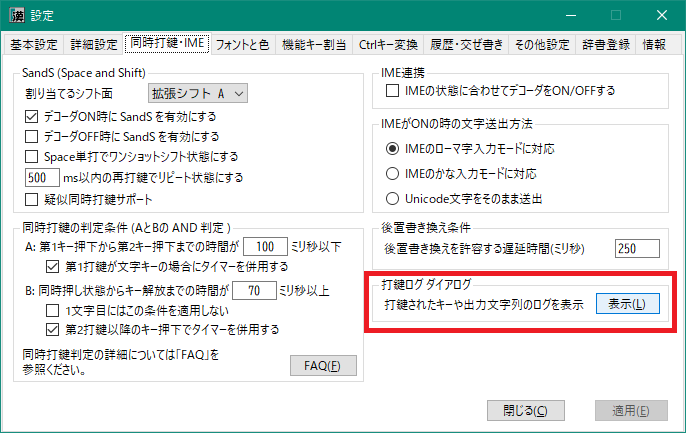
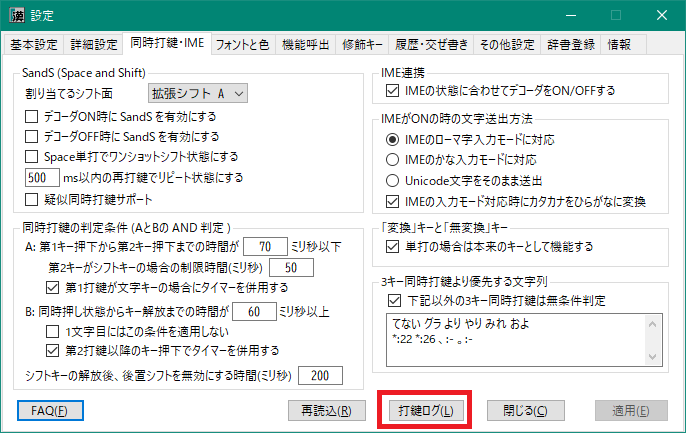
FAQ 文言修正

diff --git a/FAQ/FAQ-基本.md b/FAQ/FAQ-基本.md
@@ -22,6 +22,7 @@
     - [IME のON/OFFに合わせてかな配列入力モードもON/OFFしたい](#IME-のONOFFに合わせてかな配列入力モードもONOFFしたい)
     - [IME にひらがなが送られません](#IME-にひらがなが送られません)
 - [同時打鍵](#同時打鍵)
+    - [必ず同時打鍵として扱うケース](#必ず同時打鍵として扱うケース)
     - [同時打鍵で意図しない文字が入力されてしまうのを防ぎたい](#同時打鍵で意図しない文字が入力されてしまうのを防ぎたい)
     - [タイマーを使って一定時間後に同時打鍵判定をする](#タイマーを使って一定時間後に同時打鍵判定をする)
     - [自分がどのようなタイミングで打鍵しているかを知りたい](#自分がどのようなタイミングで打鍵しているかを知りたい)
@@ -251,10 +252,10 @@ W を押している時間帯と J を押している時間帯が一瞬でも重
 
 ![Wj Combo](image/wj-combo.png)
 
-漢直WS では、この「同時」の時間帯が無い場合はどんなに近接した打鍵であっても「同時打鍵」とはみなしません。
-また、時間的には同時でもそれを「同時打鍵」として扱うかどうかは、さらに別の判定条件があります。
+漢直WS では、この「同時」の時間帯が無い場合は、どんなに近接した打鍵であっても「同時打鍵」とはみなしません。
+また、「同時」の時間帯があってもそれを「同時打鍵」として扱うかどうかに関しては、さらに別の判定条件があります。
 
-必ず同時打鍵として扱うケースとして以下の場合があります。
+### 必ず同時打鍵として扱うケース
 下図のように第1打鍵の解放が第2打鍵の解放よりも後の場合は無条件で
 （たとえ W から J までの打鍵間隔がどれだけ長くても）同時打鍵として扱われます。
 
@@ -264,7 +265,7 @@ W を押している時間帯と J を押している時間帯が一瞬でも重
 
 「単打のつもりでキーを連打していたら意図せず同時打鍵と判定されて別の文字が出力された」
 というケースがよく生じます。これをある程度解消するために、
-「同時に打鍵されている(キーの重なりがある)けど、こういう場合は同時打鍵とみなさない」
+「同時に打鍵されている（キーの重なりがある）けど、こういう場合は同時打鍵とみなさない」
 という制約を設けることができます。
 
 #### 第1打鍵から第2打鍵までの時間に制約をかける
@@ -301,8 +302,8 @@ NICOLA(親指シフト)のようにシフトキーと文字キーのどちらが
 「50ms」という制約によって適用されなくなり、左シフトは第3打鍵(K)にかかるようになります。
 
 #### 第2打鍵の押下から第1打鍵の解放までの時間に制約をかける
-たとえば下図のような感じでキーを連打しているときには同時打鍵と判定せず、単打判定してほしい、
-というケースです。上図の条件だけでは、このケースは同時打鍵と判定されてしまいます。
+たとえば下図のような感じで、キー押下の重なり時間を短くしてキーを連打しているときには同時打鍵と判定せず、
+単打判定してほしい、というケースです。上図の条件だけでは、このケースは同時打鍵と判定されてしまいます。
 
 ![Combo 1 2 50Ms](image/combo-1-2-50ms.png)
 
@@ -391,7 +392,7 @@ NICOLA(親指シフト)のようにシフトキーと文字キーのどちらが
 
 ![Stroke Log](image/stroke-log.png)
 
-上図のように「打鍵ログ ダイアログ」>「表示」ボタンをクリックしてください。
+上図のように「同時打鍵・IME」>「打鍵ログ」ボタンをクリックしてください。
 下図のようなダイアログが表示され、キーの押下・解放および文字出力の様子がタイムスタンプとともに表示されます。
 
 ![Stroke Log Dlg](image/stroke-log-dlg.png)
